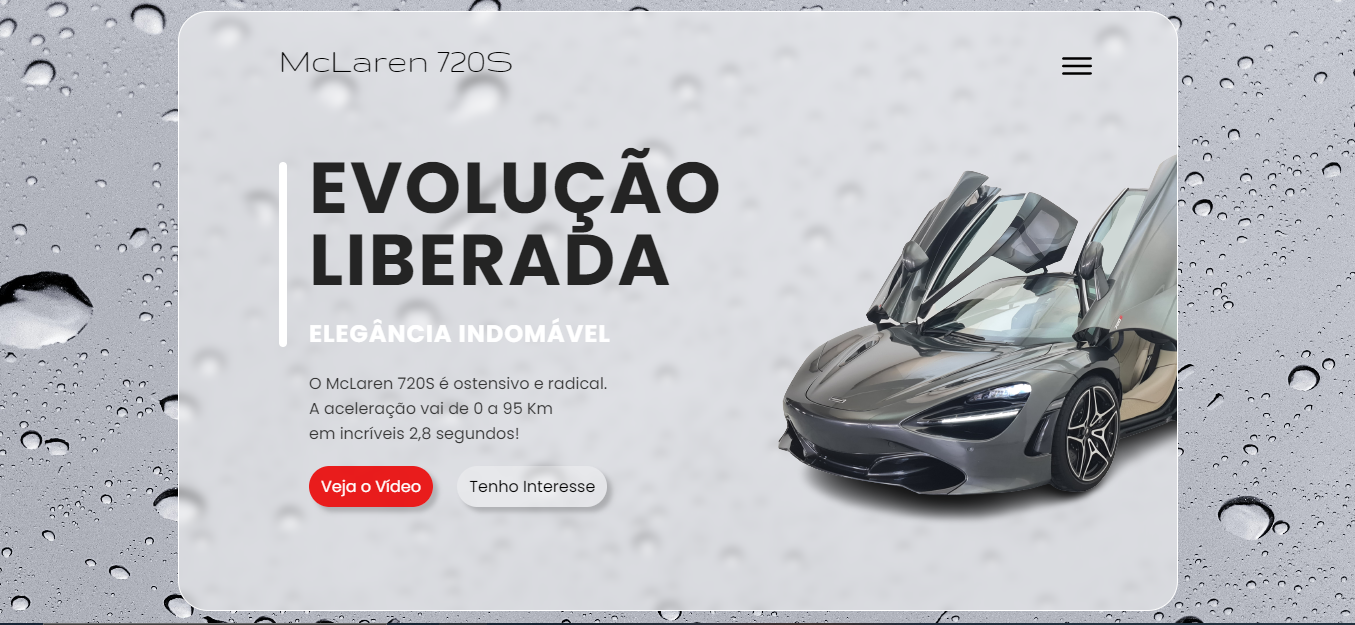
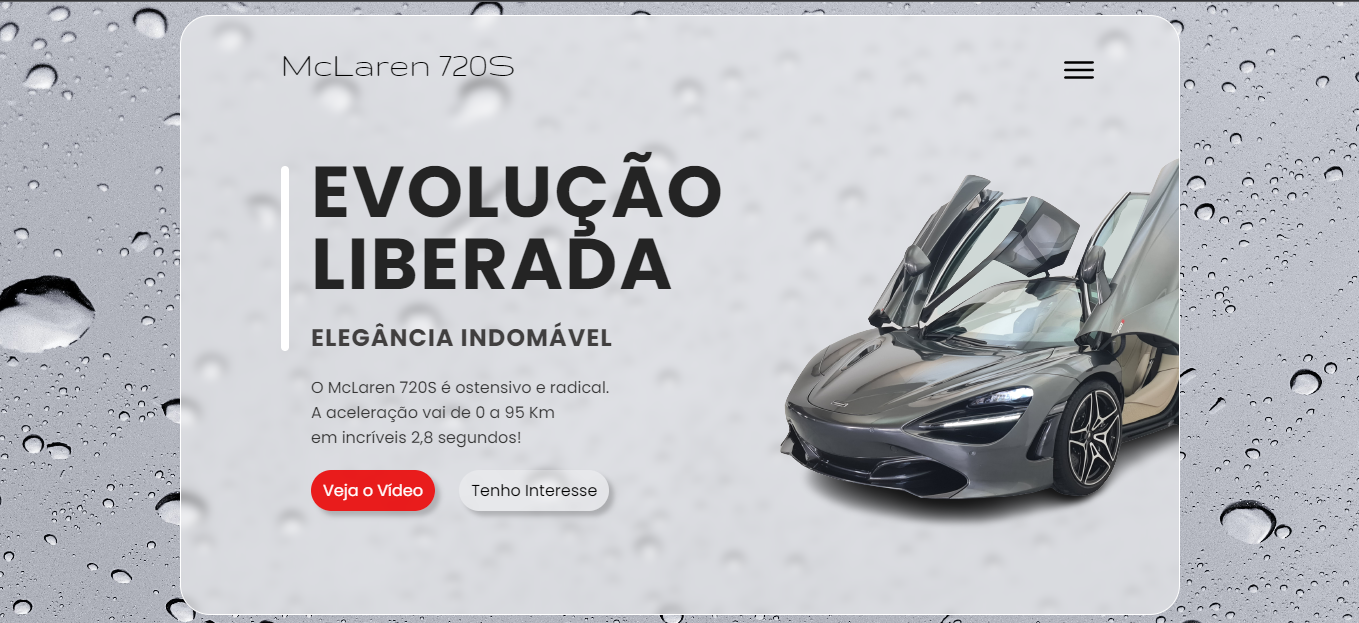
Atualização de cores
Atualização das cores do subtitulo

diff --git a/style.css b/style.css
@@ -83,7 +83,7 @@ main .content h1{
 main .content h3{
     font-size: 24px;
     text-transform: uppercase;
-    color: #fff;
+    color: rgb(65, 63, 63);
     letter-spacing: 1px;
 }
 
